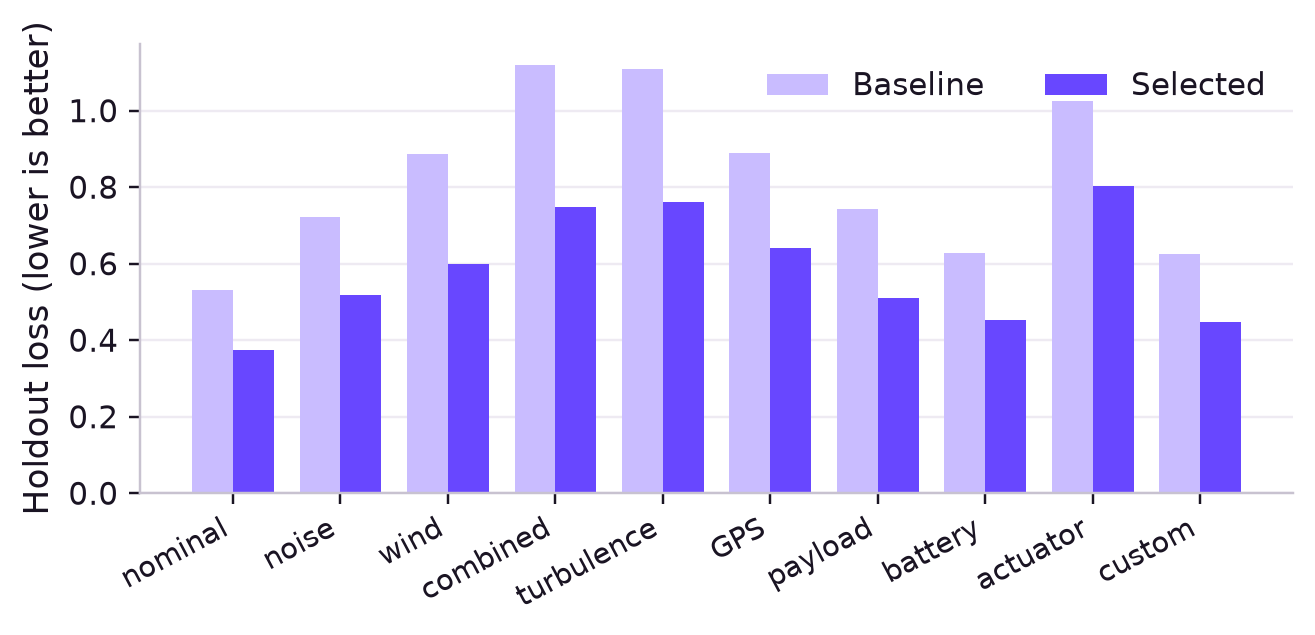
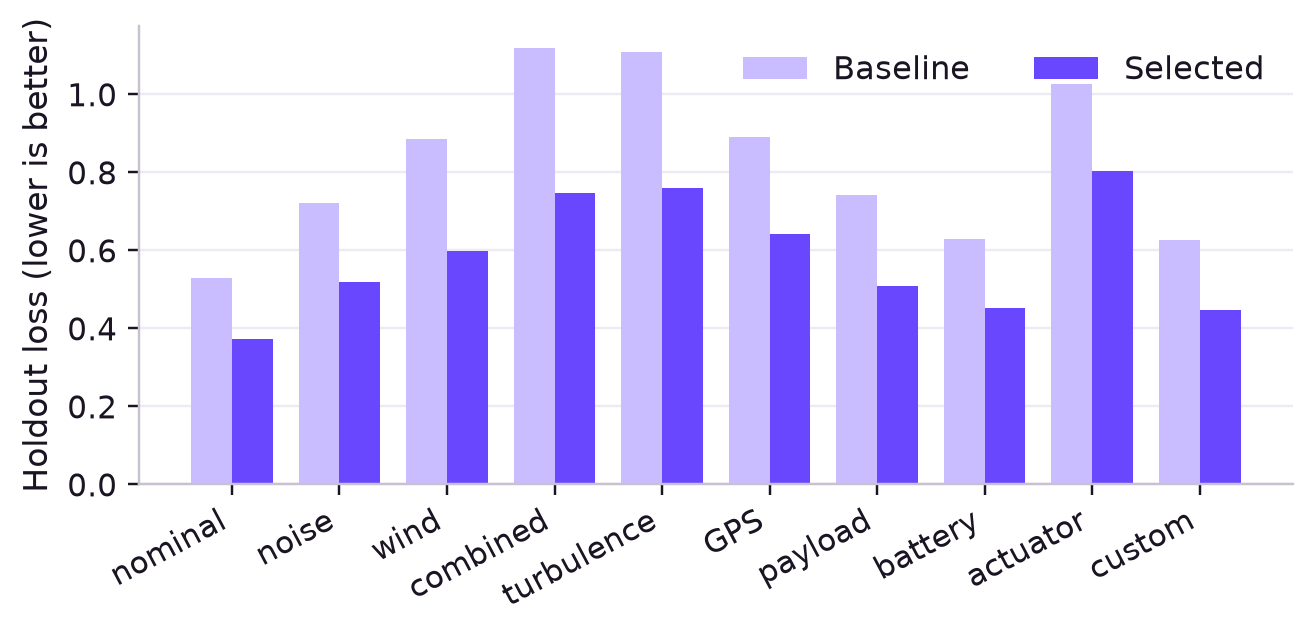
docs(report): balance pages and improve figure readability

diff --git a/technical-report/body.tex b/technical-report/body.tex
@@ -241,7 +241,9 @@ reduced-fidelity strategy to fidelity 1.0 before acceptance.
 Provenance-bound memory admits trusted outcomes, while the final gate
 freezes holdout results and rejects incomplete artifacts. Each stage
 narrows authority, so fluent output cannot bypass an executable contract
-or test.
+or test. The retained decision trace records the selected tool together
+with every filtered alternative and its rejection basis during later
+replay.
 
 \noindent\makebox[\linewidth][c]{%
 \includegraphics[width=6.50000in,height=2.54583in]{media/media/image3.png}}
@@ -336,7 +338,13 @@ route, fidelity, and cohort position, while non-causal GP/CMA diagnostic
 matrices remain outside that decision hash
 {[}\protect\hyperlink{ref_1}{\emph{1}}{]}. This boundary lets supported
 machines replay identical candidate sequences across machines before any
-provider decision receives credit.
+provider decision receives credit. The transcript is compared at the
+executed-Candidate boundary rather than against optimizer diagnostics
+that may vary by library implementation. A replay mismatch therefore
+identifies a decision-relevant divergence before a provider route or
+reported observation is accepted, keeping numerical implementation drift
+separate from evidence drift during independent replay and release
+review.
 
 \textbf{Feedback is verified again at the model boundary.} Optimizers,
 the closed-tool router, and direct proposer share a training-feedback
@@ -449,10 +457,10 @@ tasks, vehicles, scenarios, or provider outputs.
 \begingroup
 \refstepcounter{table}\textnormal{Table \thetable: Current and historical routing accuracy with claim boundary}\par
 \vspace{0.22em}
-\footnotesize
-\renewcommand{\arraystretch}{0.88}
+\small
+\renewcommand{\arraystretch}{0.92}
 \arrayrulecolor{DDPrint}
-\begin{tabular}{@{}L{0.32\linewidth}C{0.19\linewidth}L{0.36\linewidth}@{}}
+\begin{tabular}{@{}L{0.30\linewidth}C{0.19\linewidth}L{0.43\linewidth}@{}}
 \toprule
 \textbf{Comparator} & \textbf{Acceptable selections} & \textbf{Evidence
 treatment}\tabularnewline
@@ -552,7 +560,12 @@ their designated protection is removed. This construction demonstrates
 enforceable behavior for fallback, provider trust, outcome isolation,
 and tool eligibility; it is not a statistical effect estimate and does
 not measure optimizer quality, simulated control performance, flight
-safety, or readiness.
+safety, or readiness. The comparison is diagnostic because each weakened
+arm changes one named admission rule while leaving inputs and expected
+outputs fixed. A failed probe therefore localizes enforcement coverage at
+the source boundary; it does not estimate how frequently that boundary is
+reached in customer workloads or how much any optimizer improves a
+controller in release decisions.
 
 \Needspace{11\baselineskip}
 \begin{center}
@@ -632,7 +645,12 @@ deterministic portfolio after routing, the result does not show LLM
 superiority, causal AURORA benefit, PX4/Gazebo performance,
 controller quality, or flight safety. That bounded conclusion is
 replayable from retained Candidates, Trials, receipts, and comparison
-fields under the frozen protocol, using the archived JSON and CSV exports as the independent audit surface.}
+fields under the frozen protocol, using the archived JSON and CSV exports
+as the independent audit surface. A future recovery claim must rerun the
+matched design with an actual provider failure class and retain any
+arm-specific divergence instead of assuming that mock equality
+generalizes. This is the minimum evidence needed to distinguish recovery
+coverage from recovery performance.}
 
 \subsection{\texorpdfstring{\textbf{4.5 Tool-use
 behavior}}{4.5 Tool-use behavior}}\label{tool-use-behavior}
@@ -661,7 +679,7 @@ controller behavior under a shared scenario, seed, and execution budget,
 and it cannot establish repeatability beyond the frozen routing corpus itself.
 
 \noindent\makebox[\linewidth][c]{%
-\includegraphics[width=6.50000in,height=2.16856in]{media/media/image6.png}}
+\includegraphics[width=6.50000in]{media/media/image6.png}}
 
 \emph{Figure 4. Tool distribution across the current 24-case Evidence
 2.7 / Prompt 1.6 development freeze; counts describe selection frequency
@@ -692,7 +710,7 @@ claim and terminal disposition for independent replay after every
 failure, retry, recovery, and ownership transition.
 
 \noindent\makebox[\linewidth][c]{%
-\includegraphics[width=5.00000in,height=2.41445in]{media/media/image7.png}}
+\includegraphics[width=5.15000in]{media/media/image7.png}}
 
 \emph{Figure 5. Baseline and selected holdout loss across ten frozen
 synthetic scenarios; evidence metadata records a mock simulator, false
@@ -738,7 +756,7 @@ vehicles or simulators
 and cannot be interpreted as PX4/Gazebo, real-aircraft, safety, or sim-to-real evidence.
 
 \noindent\makebox[\linewidth][c]{%
-\includegraphics[width=6.50000in,height=1.25000in]{media/media/image8.png}}
+\includegraphics[width=6.50000in,height=1.35000in]{media/media/image8.png}}
 
 \emph{Figure 6. Relative loss reduction by mock scenario.}
 
@@ -919,7 +937,11 @@ service changes cannot be permanently prevented. The gate therefore
   first failing stage. Recovery verification should replay install,
   upgrade, repair, offline, and damaged-cache paths without allowing stale
   success to satisfy a fresh launch or conceal the newly failing
-  dependency under the same receipted probe sequence.
+  dependency under the same receipted probe sequence. The receipt must
+  also retain the exact recovery action and the first post-recovery probe
+  so a green launcher state remains attributable to one tested
+  environment rather than becoming a generic assertion of platform
+  health after repair or upgrade.
 
 \textbf{Readiness is a conjunction, not a progress animation.} The
 launcher requires a fresh supported-system probe, one owned and
@@ -1158,7 +1180,13 @@ fallback campaign matches the direct arm in 10/10 frozen comparisons
   so a later rebuild cannot silently accept a different evidence
   contract. Independent replay must recompute declared counts and hashes
   from Git object bytes and reject missing objects before comparing
-  presentation-layer bytes or customer-facing claims.
+  presentation-layer bytes or customer-facing claims. This two-commit
+  publication pattern prevents a receipt from authenticating bytes that
+  did not exist at the source freeze. Reviewers can rebuild the source
+  subject, compare its hashes, and inspect the later artifact commit
+  without trusting the working tree that produced either object. Any
+  mismatch remains a new report revision rather than an editorial
+  substitution during independent review.
 
 \section{\texorpdfstring{\textbf{9.
 Conclusion}}{9. Conclusion}}\label{conclusion}
@@ -1471,10 +1499,10 @@ deliberately bounded offline decision protocol.
 \looseness=-1
 
 \begingroup
-\footnotesize
-\renewcommand{\arraystretch}{1.22}
+\small
+\renewcommand{\arraystretch}{1.08}
 \setlength{\LTpre}{0.60em}
-\begin{longtable}[]{@{}L{0.25\linewidth}C{0.08\linewidth}C{0.10\linewidth}L{0.30\linewidth}L{0.13\linewidth}@{}}
+\begin{longtable}[]{@{}L{0.23\linewidth}C{0.08\linewidth}C{0.10\linewidth}L{0.32\linewidth}L{0.17\linewidth}@{}}
 \caption{Frozen four-arm component outcome ablation}\tabularnewline
 \toprule
 \textbf{Arm} & \textbf{Jobs} & \textbf{Trials} &
@@ -1562,17 +1590,24 @@ not provider, PX4/Gazebo, or flight behavior. Each reproducible value
   any dependency SHA, figure, assertion, or receipt field drifts. This
   keeps the website handoff limited to the final PDF and its hash while
   preserving source, scripts, manifests, and receipts under report
-  ownership. That separation lets the website cite the artifact without
-  acquiring authority to regenerate, alter, or reinterpret the report's
-  evidence chain; any revised PDF requires a new report source commit,
-  complete build, visual review, and validation receipt.
+ownership. That separation lets the website cite the artifact without
+acquiring authority to regenerate, alter, or reinterpret the report's
+evidence chain; any revised PDF requires a new report source commit,
+complete build, visual review, and validation receipt. The ledger also
+separates regeneration from interpretation: reproducing the same artifact
+does not authorize a reader to widen the claim boundary attached to any
+row. A changed source, dependency, or conclusion must receive a new
+subject commit, regenerated figures, and a fresh receipt instead of
+inheriting the prior report's validation status. This lifecycle keeps
+editorial revision, evidence revision, and product release as separately
+reviewable events under the same auditable release boundary.
 
 \begingroup
-\footnotesize
-\renewcommand{\arraystretch}{1.02}
+\small
+\renewcommand{\arraystretch}{1.06}
 \setlength{\LTpre}{0.30em}
 \setlength{\LTpost}{0.20em}
-\begin{longtable}[]{@{}L{0.25\linewidth}C{0.15\linewidth}L{0.22\linewidth}L{0.28\linewidth}@{}}
+\begin{longtable}[]{@{}L{0.25\linewidth}C{0.15\linewidth}L{0.21\linewidth}L{0.31\linewidth}@{}}
 \caption{Evidence-source and claim-boundary ledger}\tabularnewline
 \toprule
 \textbf{Evidence surface} & \textbf{Scale} &

diff --git a/technical-report/scripts/generate_data_figures.py b/technical-report/scripts/generate_data_figures.py
@@ -243,12 +243,12 @@ def make_tool_distribution(evidence: dict[str, Any], path: Path) -> None:
         MAGENTA,
         ROSE,
     ]
-    fig, ax = plt.subplots(figsize=(5.2, 1.72))
+    fig, ax = plt.subplots(figsize=(5.2, 1.82))
     bars = ax.barh(labels, values, color=gradient[: len(values)])
     ax.set_xlim(0, max(values) + 2)
     ax.set_xlabel("Selected cases")
-    ax.tick_params(axis="x", labelsize=10)
-    ax.tick_params(axis="y", labelsize=9.6, pad=2)
+    ax.tick_params(axis="x", labelsize=10.5)
+    ax.tick_params(axis="y", labelsize=10.3, pad=2)
     ax.grid(axis="x", color="#EEEAF2", linewidth=0.8)
     ax.set_axisbelow(True)
     ax.spines[["top", "right"]].set_visible(False)
@@ -258,7 +258,7 @@ def make_tool_distribution(evidence: dict[str, Any], path: Path) -> None:
             bar.get_y() + bar.get_height() / 2,
             str(value),
             va="center",
-            fontsize=10.5,
+            fontsize=11,
             fontweight="bold",
         )
     fig.subplots_adjust(left=0.265, right=0.975, bottom=0.25, top=0.96)
@@ -291,13 +291,13 @@ def make_scenario_chart(evidence: dict[str, Any], path: Path) -> None:
     selected = [row["selected_holdout_loss"] for row in rows]
     x = np.arange(len(labels))
     width = 0.38
-    fig, ax = plt.subplots(figsize=(6.1, 2.92))
+    fig, ax = plt.subplots(figsize=(6.1, 3.0))
     ax.bar(x - width / 2, baseline, width, label="Baseline", color=LAVENDER)
     ax.bar(x + width / 2, selected, width, label="Selected", color=VIOLET)
-    ax.set_xticks(x, labels, fontsize=9.5, rotation=28, ha="right")
-    ax.set_ylabel("Holdout loss (lower is better)")
-    ax.tick_params(axis="y", labelsize=10)
-    ax.legend(frameon=False, ncol=2, fontsize=10)
+    ax.set_xticks(x, labels, fontsize=10.2, rotation=28, ha="right")
+    ax.set_ylabel("Holdout loss (lower is better)", fontsize=10.8)
+    ax.tick_params(axis="y", labelsize=10.3)
+    ax.legend(frameon=False, ncol=2, fontsize=10.5)
     ax.grid(axis="y", color="#EEEAF2", linewidth=0.8)
     ax.set_axisbelow(True)
     ax.spines[["top", "right"]].set_visible(False)
@@ -316,13 +316,13 @@ def make_scenario_heatmap(evidence: dict[str, Any], path: Path) -> None:
         "dreamline",
         ["#F5F0FF", LAVENDER, VIOLET, MAGENTA, ROSE],
     )
-    fig, ax = plt.subplots(figsize=(6.5, 1.8))
+    fig, ax = plt.subplots(figsize=(6.5, 1.95))
     image = ax.imshow(values, aspect="auto", cmap=cmap, vmin=15, vmax=35)
-    ax.set_yticks([0], ["Relative\nimprovement"], fontsize=10)
+    ax.set_yticks([0], ["Relative\nimprovement"], fontsize=10.5)
     ax.set_xticks(
         range(len(labels)),
         labels,
-        fontsize=9,
+        fontsize=9.8,
         rotation=30,
         ha="right",
     )
@@ -335,7 +335,7 @@ def make_scenario_heatmap(evidence: dict[str, Any], path: Path) -> None:
             va="center",
             color=WHITE if value > 29 else INK,
             fontweight="bold",
-            fontsize=9.5,
+            fontsize=10.2,
         )
     ax.tick_params(length=0)
     for spine in ax.spines.values():
@@ -348,7 +348,7 @@ def make_scenario_heatmap(evidence: dict[str, Any], path: Path) -> None:
         fraction=0.14,
         label="Relative loss reduction (%)",
     )
-    colorbar.ax.tick_params(labelsize=9)
+    colorbar.ax.tick_params(labelsize=9.6)
     fig.tight_layout()
     fig.savefig(path, dpi=220, bbox_inches="tight")
     plt.close(fig)

diff --git a/technical-report/scripts/audit_latex_report.py b/technical-report/scripts/audit_latex_report.py
@@ -15,7 +15,8 @@ POINTS_PER_MM = 72.0 / 25.4
 PAGE_WIDTH_MM = 210.0
 BODY_RIGHT_MARGIN_MM = 19.0
 BODY_BOTTOM_MARGIN_MM = 16.0
-BODY_BOTTOM_TOLERANCE_POINTS = 40.0
+BODY_BASELINE_POINTS = 12.0
+BODY_BOTTOM_TOLERANCE_POINTS = BODY_BASELINE_POINTS
 
 
 def normalize(text: str) -> list[str]:
@@ -459,7 +460,9 @@ def bottom_audit(pdf: Path) -> list[dict[str, object]]:
                     "body_bottom_target_points": round(body_bottom_target, 2),
                     "content_bottom_points": round(content_bottom, 2),
                     "gap_to_body_bottom_points": round(gap_to_body_bottom, 2),
-                    "gap_to_body_bottom_lines": round(gap_to_body_bottom / 12.0, 3),
+                "gap_to_body_bottom_lines": round(
+                    gap_to_body_bottom / BODY_BASELINE_POINTS, 3
+                ),
                     "passed_bottom_line": (gap_to_body_bottom <= BODY_BOTTOM_TOLERANCE_POINTS),
                 }
             )
@@ -521,6 +524,15 @@ def main() -> None:
                 ),
                 "inventory": exception_inventory,
             },
+        },
+        "page_bottom_policy": {
+            "definition": (
+                "Rendered body content on every page must end within one "
+                "12-point body line of the audited bottom target."
+            ),
+            "body_bottom_margin_mm": BODY_BOTTOM_MARGIN_MM,
+            "baseline_points": BODY_BASELINE_POINTS,
+            "maximum_unused_body_lines": 1.0,
         },
         "bottoms": bottoms,
         "bottom_failures": [item["page"] for item in bottoms if not item["passed_bottom_line"]],

diff --git a/technical-report/main.tex b/technical-report/main.tex
@@ -54,7 +54,6 @@
 \widowpenalty=10000
 \displaywidowpenalty=10000
 \interlinepenalty=10000
-\raggedbottom
 
 \titleformat{\section}
   {\sffamily\bfseries\fontsize{15}{17}\selectfont\color{DDPrint}}

diff --git a/technical-report/README.md b/technical-report/README.md
@@ -98,6 +98,11 @@ paragraph gate requires all explanatory prose, including the abstract, to end
 with a rendered line at least 80% as wide as its usable body line. Short list
 items are audited separately: every item must remain within three rendered
 lines and its final line must fill at least 90% of the usable list width.
+The page-bottom gate independently requires the lowest rendered body content
+on every page to finish within one 12-point body line of the audited bottom
+target; substantive technical explanation, table spacing, and figure sizing
+must resolve excess space rather than hidden text or forced last-line
+justification.
 Headings, display formulas, code blocks, figure/table captions, and references
 are inventoried as reasonable exceptions instead of being silently pooled
 with body prose. Intermediate files remain under the ignored
